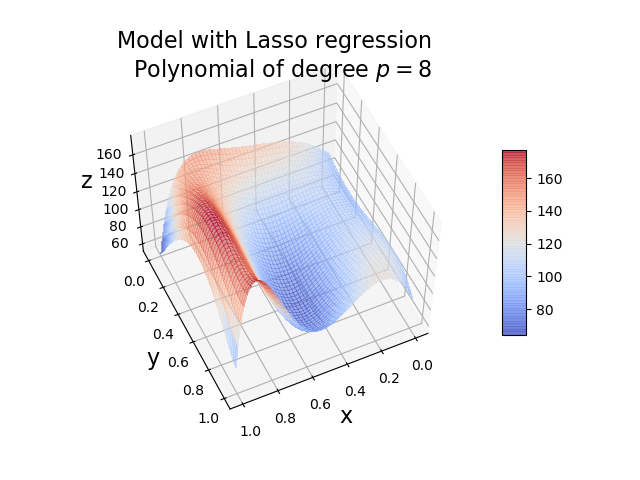
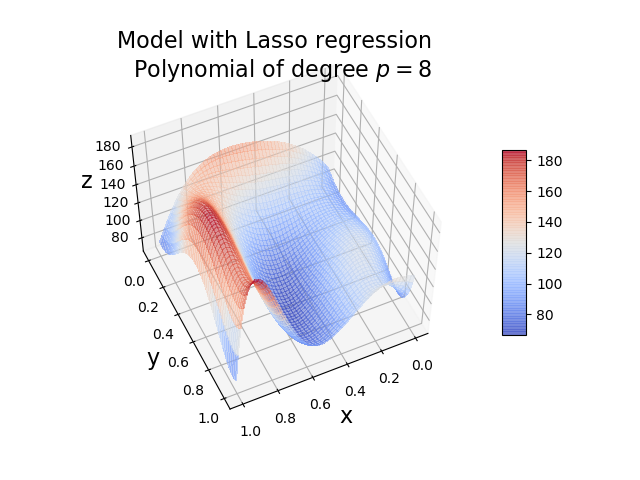
Small updates

Changed region(s): [[0.1562, 0.1562, 0.6875, 0.7812], [0.8125, 0.3125, 0.875, 0.6875]]

diff --git a/Project1/project1.py b/Project1/project1.py
@@ -252,6 +252,11 @@ if __name__ == "__main__":
 		beta_new = project1_func.beta(np.ravel(z), X_new, method='OLS')
 		model_new  = X_new @ beta_new
 
+		# Calculate MSE and R2 for the best model
+		MSE = project1_func.MeanSquaredError(np.ravel(z), model_new)
+		R_2 = project1_func.R2_ScoreFunction(np.ravel(z), model_new)
+		print('Model mean MSE: %-10g, and R2 score: %-10g' %(MSE, R_2))
+
 		project1_plot.Plot_3D_Franke(x, y, np.ravel(z), model_new, p_deg_optimal, "OLS_final_model", func="OLS", scatter=True, savefig=True)
 		plt.show()
 
@@ -290,6 +295,11 @@ if __name__ == "__main__":
 		project1_plot.Plot_3D_Franke(x, y, z, model_new, p_deg_optimal, 'final_model_Ridge_franke', func="Ridge", scatter=True, savefig=True, l=lambda_optimal)
 		plt.show()
 
+		# Calculate MSE and R2 for the best model
+		MSE = project1_func.MeanSquaredError(np.ravel(z), model_new)
+		R_2 = project1_func.R2_ScoreFunction(np.ravel(z), model_new)
+		print('Model mean MSE: %-10g, and R2 score: %-10g' %(MSE, R_2))
+
 		# Printing and calculating the confidence intervals for Ridge with the best lambda
 		project1_func.CI(z, X_new, beta_new, model_new, p_deg_optimal, method='Ridge', dataset='Franke', plot=True)
 		plt.show()
@@ -323,10 +333,6 @@ if __name__ == "__main__":
 
 			Deg, Best_lamb, Min_MSE = project1_plot.plot_MSE_lambda(x, y, data, k, p_min, p_max, lambdas, "Franke_Lasso", method='Lasso', shuffle=False, savefig=True)
 			plt.show()
-			#'The best lambda value for each degree:'
-			#'For degree=4 - Best alpha=1.67683e-06 - Min MSE=1.01693'
-			#'For degree=5 - Best alpha=2.17137e-07 - Min MSE=1.01728'
-			#'For degree=6 - Best alpha=1.25893e-07 - Min MSE=1.01672'
 
 		p_deg_optimal  = 4
 		lambda_optimal = 1.67683e-6
@@ -352,11 +358,11 @@ if __name__ == "__main__":
 		CI_Lasso_F = project1_func.CI(z, X_new, beta_new, model_new, p_deg_optimal, method='Lasso', dataset='Franke', plot=False)
 		print(CI_Lasso_F)
 
-		# Plotting MSE test and train for all the model in the same plot
-		#project1_plot.Plot_MSE_R2_BV(x, y, data, k, p_degree, 0,          method='OLS',   dataset='Franke', savefig=False)
-		#project1_plot.Plot_MSE_R2_BV(x, y, data, k, p_degree, 0.00148497, method='Ridge', dataset='Franke', savefig=False)
-		#project1_plot.Plot_MSE_R2_BV(x, y, data, k, p_degree, 1.67683e-6, method='Lasso', dataset='Franke', savefig=False)
-		#plt.show()
+		# Calculate MSE and R2 for the best model
+		MSE = project1_func.MeanSquaredError(np.ravel(z), model_new)
+		R_2 = project1_func.R2_ScoreFunction(np.ravel(z), model_new)
+		print('Model mean MSE: %-10g, and R2 score: %-10g' %(MSE, R_2))
+
 
 
 	elif Real_data == True:
@@ -479,6 +485,11 @@ if __name__ == "__main__":
 			project1_func.CI(z_terrain, X_new, beta_new, model_new, p_deg_optimal, method='OLS', dataset='Terrain')
 			plt.show()
 
+			# Calculate MSE and R2 for the best model
+			MSE = project1_func.MeanSquaredError(z_terrain, model_new)
+			R_2 = project1_func.R2_ScoreFunction(z_terrain, model_new)
+			print('Model mean MSE: %-10g, and R2 score: %-10g' %(MSE, R_2))
+
 			# Confidence interval. Plotted and printed to terminal
 			project1_func.CI(z_terrain, X_new, beta_new, model_new, p_deg_optimal, method='OLS', dataset='Terrain', plot=True)
 			plt.show()
@@ -516,6 +527,11 @@ if __name__ == "__main__":
 			project1_plot.plot_terrain(x_, y_, model_new, p_deg_optimal, lambda_optimal, 'Terrain_final_best_p_Ridge', func="Ridge", string='Unnamed crater in Utopia Planitia, Mars', savefig=True)
 			plt.show()
 
+			# Calculate MSE and R2 for the best model
+			MSE = project1_func.MeanSquaredError(z_terrain, model_new)
+			R_2 = project1_func.R2_ScoreFunction(z_terrain, model_new)
+			print('Model mean MSE: %-10g, and R2 score: %-10g' %(MSE, R_2))
+
 			# Printing and calculating the confidence intervals for Ridge with the best lambda
 			project1_func.CI(z_terrain, X_new, beta_new, model_new, p_deg_optimal, method='Ridge', dataset='Terrain', plot=True)
 			plt.show()
@@ -526,24 +542,23 @@ if __name__ == "__main__":
 			print("Terrain data - Ex.e: Lasso regression on terrain data")
 			print("--"*35)
 
-			p_min =  0
-			p_max =  11
+			p_min =  5
+			p_max =  6
 
 			if Lasso_MSEvsLambda == True:
 
-				lambdas = np.logspace(-6, -1, 10)
+				lambdas = np.logspace(-6, -1, 15)
 				"""
-				For degree=9 - Best alpha=0.00774264 - Min MSE=1534.91
+				For degree=8  - Best alpha=0.00129155 - Min MSE=1476.89
+				For degree=9  - Best alpha=0.00774264 - Min MSE=1534.91
 				For degree=10 - Best alpha=0.00774264 - Min MSE=1513.16
 				For degree=11 - Best alpha=0.000599484 - Min MSE=1489.17
-				For degree=12 - Best alpha=1e-06 - Min MSE=1465.84
 				"""
-
 				Deg, Best_lamb, Min_MSE = project1_plot.plot_MSE_lambda(x_, y_, z_terrain, k, p_min, p_max, lambdas, "Terrain_Lasso", method='Lasso', shuffle=True, savefig=False)
 				plt.show()
 
 			p_deg_optimal  = 8
-			lambda_optimal = 0.01
+			lambda_optimal = 0.00129155
 
 			# Plotting MSE/R2 test and train, bias-variance, and prints values to terminal
 			project1_plot.Plot_MSE_R2_BV(x_, y_, z_terrain, k, p_max, lambda_optimal, method='Lasso', dataset='Terrain', savefig=True)
@@ -564,7 +579,7 @@ if __name__ == "__main__":
 			# Calculate MSE and R2 for the best model
 			MSE = project1_func.MeanSquaredError(z_terrain, model_new)
 			R_2 = project1_func.R2_ScoreFunction(z_terrain, model_new)
-			print('Model mean MSE: %-10g, and R2 score: %-10g' (MSE, R_2))
+			print('Model mean MSE: %-10g, and R2 score: %-10g' %(MSE, R_2))
 
 			# Printing and calculating the confidence intervals for Ridge with the best lambda
 			project1_func.CI(z_terrain, X_new, beta_new, model_new, p_deg_optimal, method='Lasso', dataset='Terrain', plot=True)

diff --git a/Project1/project1_func.py b/Project1/project1_func.py
@@ -192,7 +192,7 @@ def k_fold(data, X, k, index, method=None, l=None, shuffle=False):
 			ypredict = X_test @ betas
 
 		elif method == 'Lasso':
-			lasso    = Lasso(max_iter = 1e2, tol=0.001, normalize=True, fit_intercept=False)
+			lasso    = Lasso(max_iter = 2e2, tol=0.001, normalize=True, fit_intercept=False)
 			scaler   = StandardScaler()
 			lasso.set_params(alpha=l)
 			lasso.fit(X_train, z_train)
